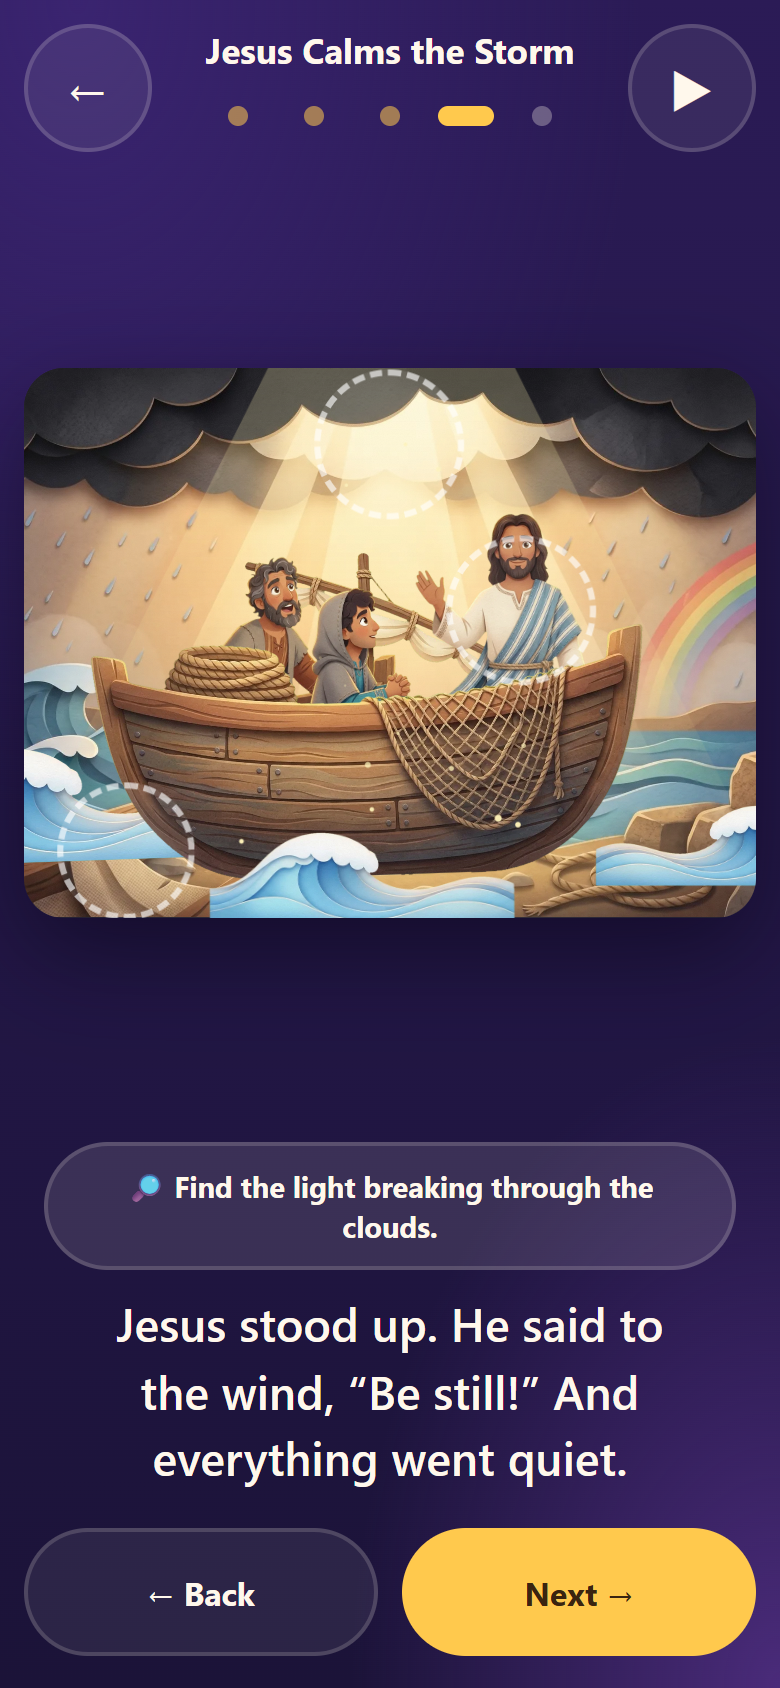
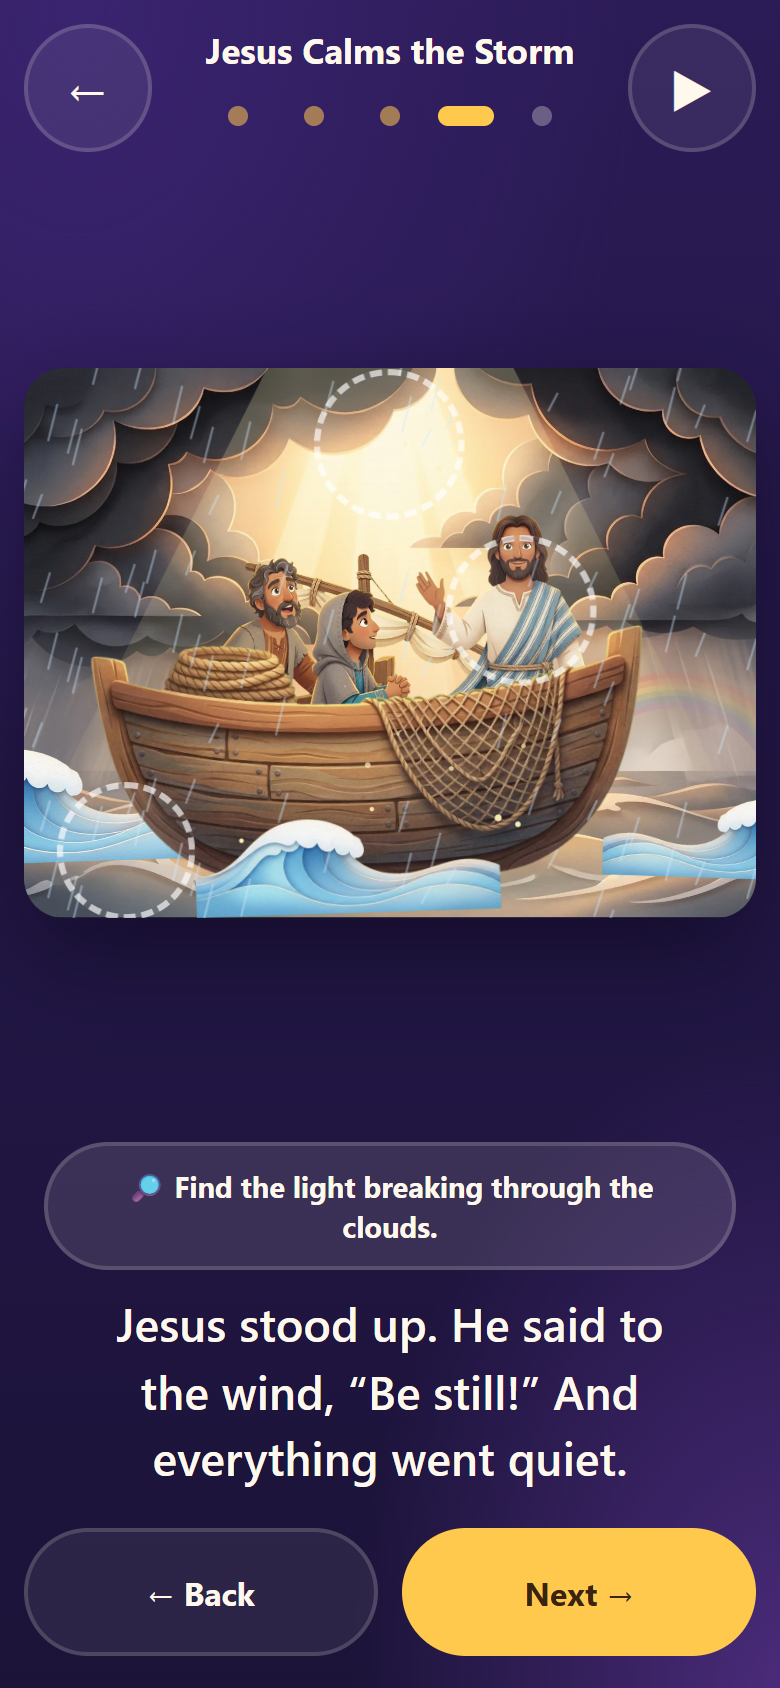
Storm page 4: water-only background, falling rain on the animated overlay
The peace page's background had rocks, planks and rope painted along the
bottom under the waves and static teardrop raindrops. It is regenerated
as water, cloud, light and sky only, and the last of the rain is the
animated Rain overlay at a light count so it keeps falling.

Changed region(s): [[0.0308, 0.2156, 0.9846, 0.5545]]

diff --git a/src/scenes/storm.tsx b/src/scenes/storm.tsx
@@ -548,6 +548,8 @@ export function QuietBeStill({ found }: SceneArtProps) {
         />
         <Ripple x={470} y={640} scale={0.5} delay={0} cls="" />
       </g>
+      {/* the last of the rain, still falling, thin and outside the light shaft */}
+      <Rain count={45} seed={11} opacity={0.4} />
       <Motes x={500} top={40} bottom={560} spread={200} />
       {found.includes("light") && <Sparkle x={500} y={90} s={2.2} />}
       <Grain opacity={0.05} />

diff --git a/docs/evidence/2026-09-18-storm-story/record.md b/docs/evidence/2026-09-18-storm-story/record.md
@@ -215,3 +215,19 @@ realistic; the mast not properly situated."
 
 Render `storm-afraid.png`, stills `afraid-phone.png` and
 `afraid-hotspot-tablet.png` replaced. Calls this round: 1.
+
+## Review round 5 (owner, 2026-09-19): page 4
+
+"Waves superimposed on rocks and wood, not the water; make the raindrops
+look like they are still falling."
+
+- The background had painted rocks, planks and a coil of rope along the
+  bottom and static teardrop raindrops. Regenerated with "NO raindrops in
+  the foreground, NO rocks, NO wood, NO shore: only water, cloud, light
+  and sky" (`peace-bg-v2.json`, 63 KB). Scene 354 KB. The ripples now
+  sit on water.
+- The rain is the animated `Rain` overlay (45 drops, opacity 0.4, the
+  `rainfall` keyframes), so it falls in the browser and rests as a still
+  in Calm mode, like the wild-night page.
+
+Render `storm-peace.png` and `peace-phone.png` replaced. Calls: 1.
